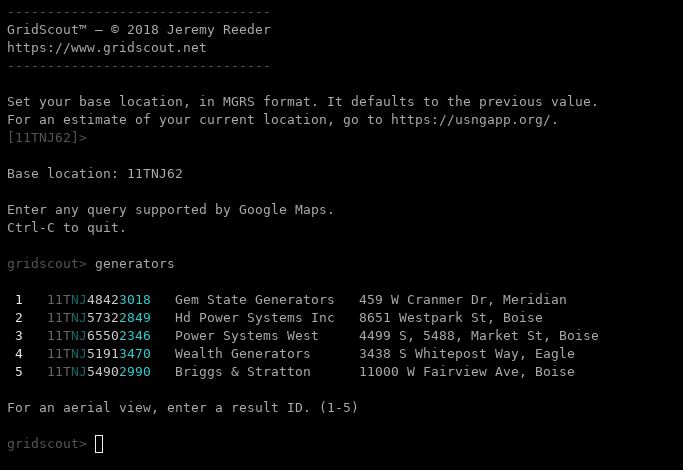
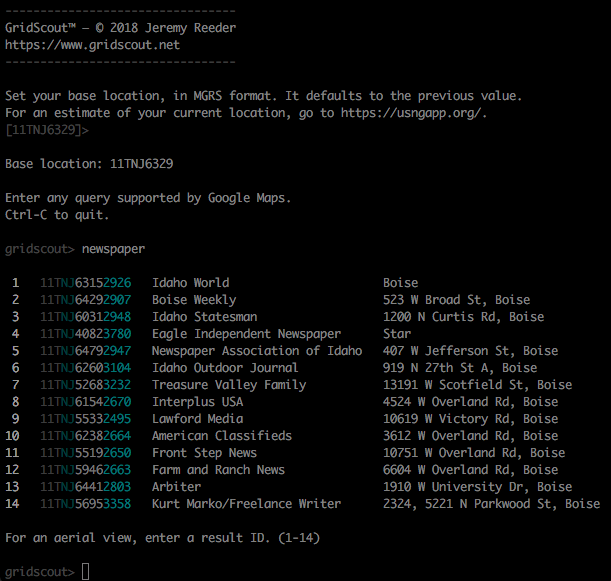
Changed example search

diff --git a/docs/index.md b/docs/index.md
@@ -10,8 +10,8 @@ process of finding and marking places of interest is tedious. Let GridScout™
 solve that so you can get on with your duty of planning for the impending
 apocalypse, or whatever it is that you do.
 
-![Screenshot of a GridScout™ search for places that sell
-generators](images/search-screenshot.png)
+![Screenshot of a GridScout™ search for newspaper
+publishers](images/search-screenshot.png)
 
 # Suggested workflow
 1. Order [waterproof paper maps][mytopo] of your areas of interest. Have them

diff --git a/README.md b/README.md
@@ -43,8 +43,8 @@ variant of the UTM coordinate system.  Latitude and longitude are so 1941.
 
     ./gridscout
 
-![Screenshot of a GridScout™ search for places that sell
-generators](docs/images/search-screenshot.png)
+![Screenshot of a GridScout™ search for newspaper
+publishers](docs/images/search-screenshot.png)
 
 
 [api-key]: https://cloud.google.com/maps-platform/#get-started
